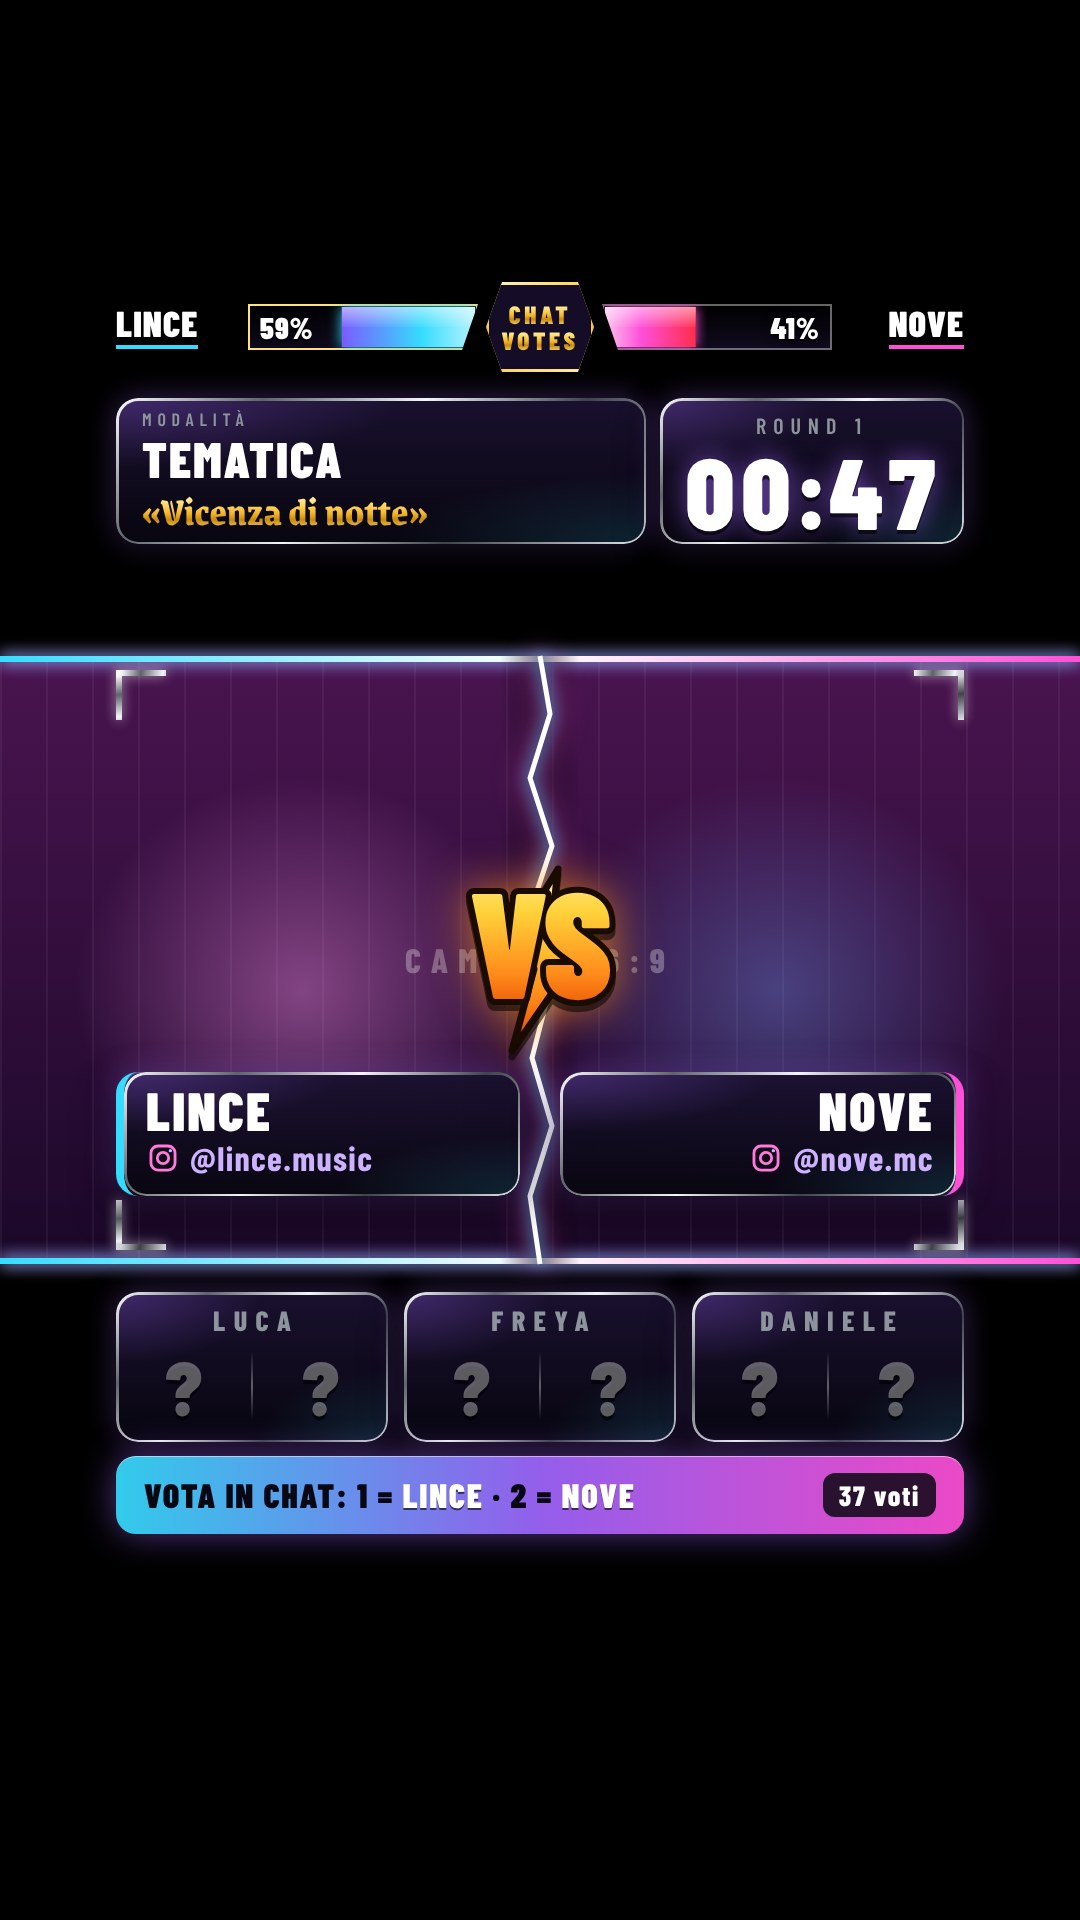
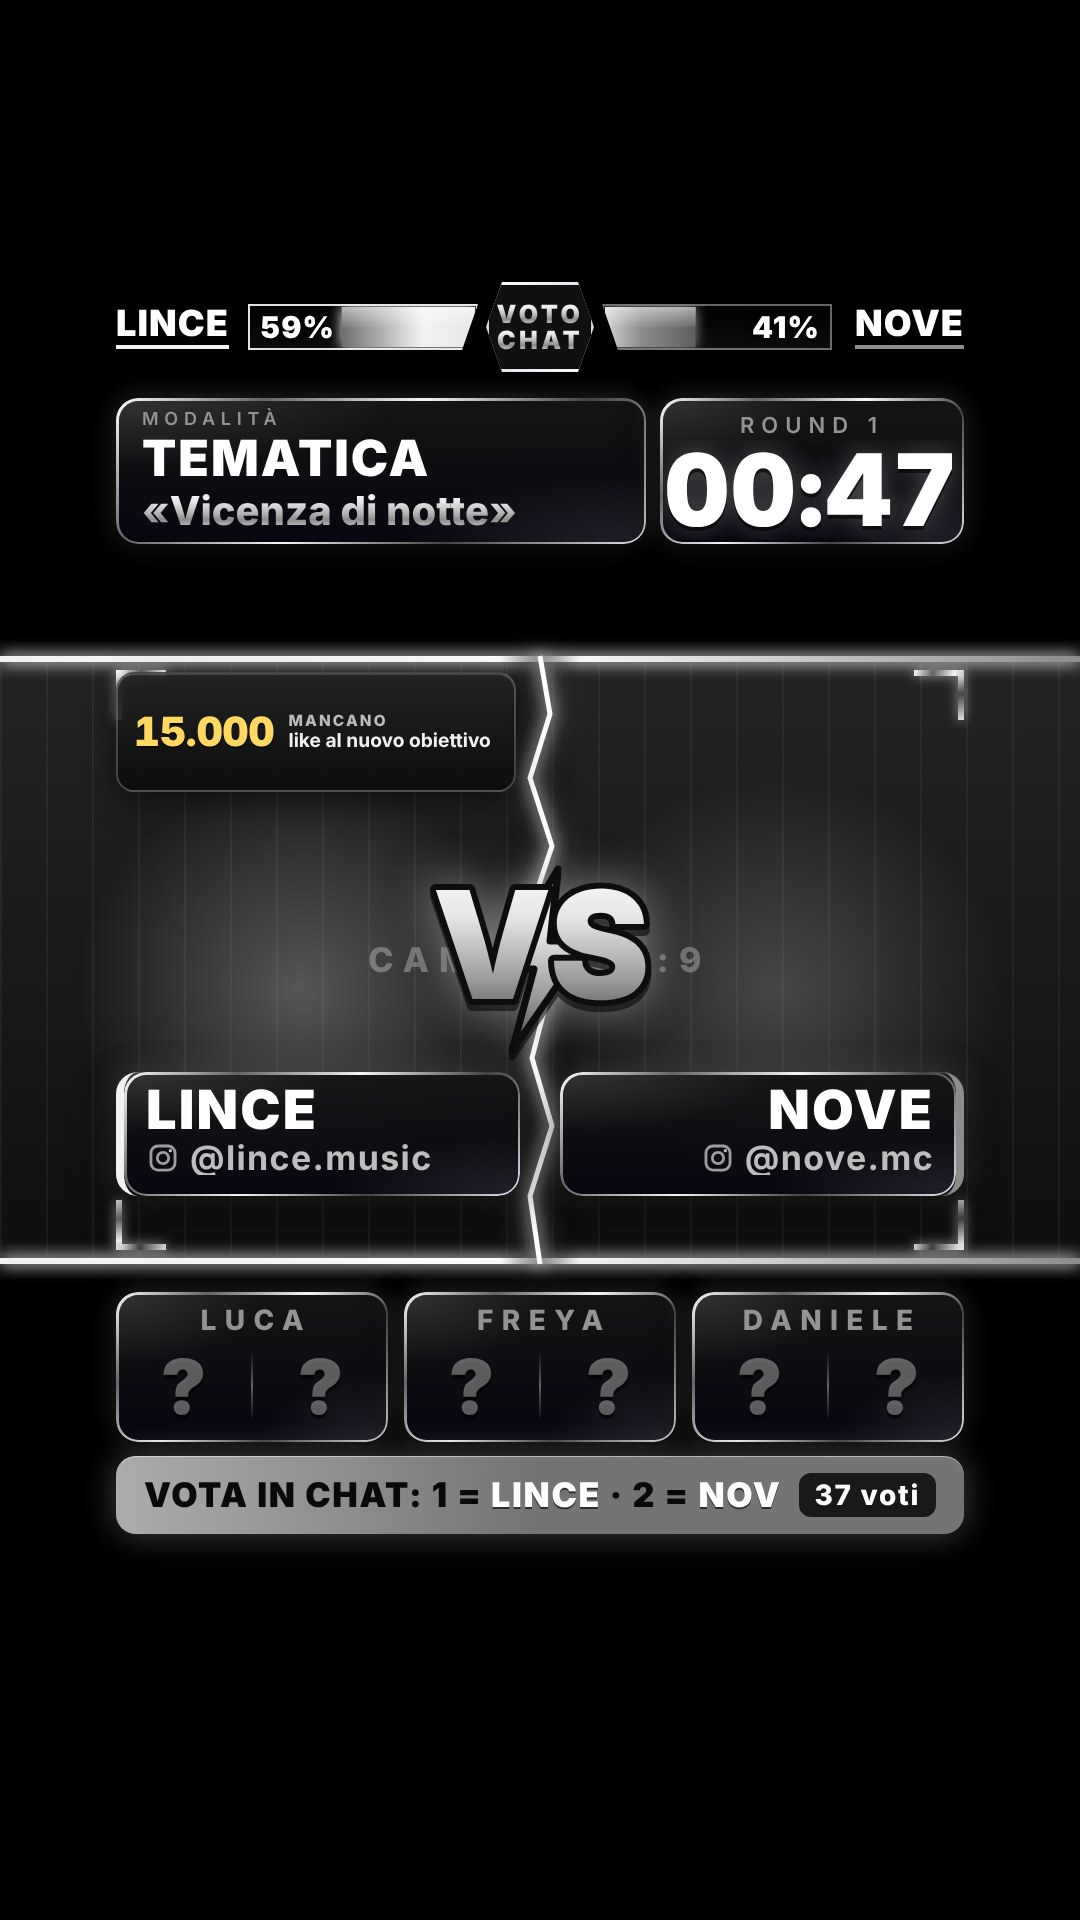
Goal: widget nei layout gara, senza premio, studio e Battle e sezione di regia [skip netlify]
Claude-Session: https://claude.ai/code/session_01KknJSv8vijv85bNpvfWr5a

diff --git a/overlay-live/public/js/regia-goal.js b/overlay-live/public/js/regia-goal.js
@@ -1,0 +1,98 @@
+// Regia: Goal Like e Follower. Obiettivi e passi, follower di adesso (imposta, +1, +10), modo (sempre o a comparsa, con le due
+// durate e «Mostra ora»), posizione per layout (X, Y, scala, frecce da 8 px, «Ripristina posizione») e l'anteprima dei due testi.
+// I campi in uso non si riscrivono (`riempi`). Le funzioni arrivano da regia.js: `$`, `invia`, `avviso`, `riempi` e `salvato`.
+import { testiGoal, posizioneGoal, POSIZIONI_GOAL } from "./goal-logica.js";
+
+const NOMI_LAYOUT = { gara: "Gara", senzaPremio: "Senza premio", studio: "Live session", battle: "Battle", drum: "Drum", produzione: "Studio Production", podcast: "Podcast 9:16", podcastO: "Podcast 16:9", reaction: "Reaction 9:16", reactionO: "Reaction 16:9" };
+const PASSO_FRECCE = 8;
+
+export function avviaRegiaGoal({ $, invia, avviso, riempi, salvato }) {
+  const selezione = $("#goal-layout");
+  for (const chiave of Object.keys(POSIZIONI_GOAL)) selezione.append(Object.assign(document.createElement("option"), { value: chiave, textContent: NOMI_LAYOUT[chiave] ?? chiave }));
+  let ultimo = null;
+  let sceltaFatta = false; // finché la regia non sceglie un layout, segue quello in onda
+  selezione.addEventListener("change", () => {
+    sceltaFatta = true;
+    for (const nome of ["x", "y", "scala"]) delete $("#f-goal-posizione").elements[nome].dataset.modificato;
+    if (ultimo) disegnaPosizione(ultimo);
+  });
+
+  const modulo = (id) => $(id);
+  const campo = (form, nome) => form.elements[nome];
+
+  async function manda(dati, form, testo) {
+    const esito = await invia("goal", dati);
+    if (esito.ok) {
+      if (form) salvato(form);
+      if (testo) avviso(testo, "ok");
+    }
+    return esito;
+  }
+
+  modulo("#f-goal").addEventListener("submit", (e) => {
+    e.preventDefault();
+    const f = e.currentTarget;
+    manda({ like: { obiettivo: campo(f, "like-obiettivo").value, passo: campo(f, "like-passo").value }, follower: { obiettivo: campo(f, "follower-obiettivo").value, passo: campo(f, "follower-passo").value } }, f, "Obiettivi aggiornati");
+  });
+
+  const seguaci = modulo("#f-goal-follower");
+  seguaci.addEventListener("submit", (e) => {
+    e.preventDefault();
+    const valore = campo(seguaci, "totale").value.trim();
+    if (valore === "") return avviso("Scrivi quanti follower avete adesso", "errore");
+    manda({ follower: { imposta: valore } }, seguaci, "Follower aggiornati");
+  });
+  for (const bottone of seguaci.querySelectorAll("[data-aggiungi]")) bottone.addEventListener("click", () => manda({ follower: { aggiungi: Number(bottone.dataset.aggiungi) } }));
+
+  const modo = modulo("#f-goal-modo");
+  modo.addEventListener("submit", (e) => {
+    e.preventDefault();
+    manda({ modo: campo(modo, "modo").value, ogniMinuti: campo(modo, "ogniMinuti").value, durataSecondi: campo(modo, "durataSecondi").value }, modo, "Goal aggiornato");
+  });
+  $("#goal-mostra").addEventListener("click", () => invia("goalMostra"));
+
+  const posizione = modulo("#f-goal-posizione");
+  const layoutScelto = () => selezione.value;
+  posizione.addEventListener("submit", (e) => {
+    e.preventDefault();
+    manda({ posizione: { layout: layoutScelto(), x: campo(posizione, "x").value, y: campo(posizione, "y").value, scala: campo(posizione, "scala").value } }, posizione);
+  });
+  for (const freccia of document.querySelectorAll("#goal-regia [data-muovi]")) {
+    freccia.addEventListener("click", () => {
+      if (!ultimo) return;
+      const [dx, dy] = freccia.dataset.muovi.split(",").map(Number);
+      const { x, y } = posizioneGoal(ultimo.goal, layoutScelto());
+      manda({ posizione: { layout: layoutScelto(), x: Math.max(0, x + dx), y: Math.max(0, y + dy) } });
+    });
+  }
+  $("#goal-ripristina").addEventListener("click", () => manda({ posizione: { layout: layoutScelto(), ripristina: true } }, null, "Posizione ripristinata"));
+
+  function disegnaPosizione(s) {
+    const { x, y, scala } = posizioneGoal(s.goal, layoutScelto());
+    riempi(campo(posizione, "x"), Math.round(x));
+    riempi(campo(posizione, "y"), Math.round(y));
+    riempi(campo(posizione, "scala"), Math.round(scala * 100));
+  }
+
+  return {
+    disegna(s) {
+      ultimo = s;
+      const g = s.goal;
+      const chiaveInOnda = POSIZIONI_GOAL[s.layout] ? s.layout : "gara";
+      if (!sceltaFatta && selezione.value !== chiaveInOnda) selezione.value = chiaveInOnda;
+      const f = modulo("#f-goal");
+      riempi(campo(f, "like-obiettivo"), g.like.obiettivo);
+      riempi(campo(f, "like-passo"), g.like.passo);
+      riempi(campo(f, "follower-obiettivo"), g.follower.obiettivo);
+      riempi(campo(f, "follower-passo"), g.follower.passo);
+      riempi(campo(seguaci, "totale"), g.follower.totale);
+      riempi(campo(modo, "ogniMinuti"), g.ogniMinuti);
+      riempi(campo(modo, "durataSecondi"), g.durataSecondi);
+      if (document.activeElement !== campo(modo, "modo")) campo(modo, "modo").value = g.modo;
+      $("#goal-avviso").hidden = g.follower.totale !== null;
+      disegnaPosizione(s);
+      const t = testiGoal(g);
+      $("#goal-anteprima").textContent = `In onda: ${[t.like, t.follower].filter(Boolean).join(" · ") || "niente (totali sconosciuti)"}`;
+    },
+  };
+}

diff --git a/overlay-live/public/regia.html b/overlay-live/public/regia.html
@@ -261,6 +261,58 @@
       </div>
     </section>
 
+    <!-- GOAL LIKE E FOLLOWER: uguale in tutti i layout -->
+    <section class="scheda sp-regia" id="goal-regia">
+      <h2>Goal Like e Follower <span class="conta">«Mancano X like al nuovo obiettivo» in tutti i layout</span></h2>
+      <label class="interruttore"><input type="checkbox" data-widget="goal"> Goal in onda</label>
+      <form id="f-goal" class="modulo" autocomplete="off">
+        <div class="gl-testa"><span></span><span>Obiettivo</span><span>Passo</span></div>
+        <div class="gl-riga-regia">
+          <span>Like</span>
+          <input name="like-obiettivo" type="number" min="1" step="1" inputmode="numeric" aria-label="Obiettivo dei like">
+          <input name="like-passo" type="number" min="0" step="1" inputmode="numeric" aria-label="Passo dei like">
+        </div>
+        <div class="gl-riga-regia">
+          <span>Follower</span>
+          <input name="follower-obiettivo" type="number" min="1" step="1" inputmode="numeric" aria-label="Obiettivo dei follower">
+          <input name="follower-passo" type="number" min="0" step="1" inputmode="numeric" aria-label="Passo dei follower">
+        </div>
+        <button>Salva obiettivi</button>
+      </form>
+      <p class="nota">Raggiunto l'obiettivo, il nuovo è il primo multiplo del passo sopra il totale (con passo 0 resta quello scelto). I like li conta il Drum Challenge: dal «Riparti da ora» del Drum partono da zero.</p>
+      <form id="f-goal-follower" class="modulo gl-azioni" autocomplete="off">
+        <label>Follower di adesso <input name="totale" type="number" min="0" step="1" inputmode="numeric" aria-label="Follower di adesso"></label>
+        <button>Imposta</button>
+        <button type="button" data-aggiungi="1">+1</button>
+        <button type="button" data-aggiungi="10">+10</button>
+      </form>
+      <p class="nota avviso-goal" id="goal-avviso" hidden>Imposta i follower di adesso: finché non si sa, la riga dei follower non va in onda (poi si aggiorna da sola con i follow della live).</p>
+      <form id="f-goal-modo" class="modulo gl-azioni" autocomplete="off">
+        <label>Compare <select name="modo"><option value="fisso">sempre</option><option value="comparsa">a comparsa</option></select></label>
+        <label>ogni <input name="ogniMinuti" type="number" min="1" max="60" step="1" inputmode="numeric" aria-label="Ogni quanti minuti"> min</label>
+        <label>per <input name="durataSecondi" type="number" min="5" max="120" step="1" inputmode="numeric" aria-label="Secondi in vista"> s</label>
+        <button>Salva</button>
+        <button type="button" id="goal-mostra" class="primario">Mostra ora</button>
+      </form>
+      <h3>Posizione</h3>
+      <form id="f-goal-posizione" class="modulo gl-azioni" autocomplete="off">
+        <label>Layout <select name="layout" id="goal-layout"></select></label>
+        <label>X <input name="x" type="number" min="0" max="1920" step="1" inputmode="numeric" aria-label="Posizione X"></label>
+        <label>Y <input name="y" type="number" min="0" max="1920" step="1" inputmode="numeric" aria-label="Posizione Y"></label>
+        <label>Scala <input name="scala" type="number" min="60" max="200" step="5" inputmode="numeric" aria-label="Scala in percentuale"> %</label>
+        <button>Applica</button>
+      </form>
+      <div class="azioni">
+        <button type="button" data-muovi="-8,0" aria-label="8 pixel a sinistra">←</button>
+        <button type="button" data-muovi="8,0" aria-label="8 pixel a destra">→</button>
+        <button type="button" data-muovi="0,-8" aria-label="8 pixel in su">↑</button>
+        <button type="button" data-muovi="0,8" aria-label="8 pixel in giù">↓</button>
+        <button type="button" id="goal-ripristina">Ripristina posizione</button>
+      </div>
+      <p class="nota">Ogni layout ha la sua posizione (la tela è 1080×1920, o 1920×1080 per Podcast e Reaction orizzontali): il Goal non esce mai dalla tela.</p>
+      <p class="nota" id="goal-anteprima"></p>
+    </section>
+
     <!-- SOCIAL DEL BRAND: una lista sola per tutte le fasce che scorrono -->
     <section class="scheda sp-regia" id="social-regia">
       <h2>Social del brand <span class="conta">una lista sola, in tutte le barre che scorrono: senza premio, studio, drum, produzione, podcast e reaction</span></h2>

diff --git a/overlay-live/public/js/overlay.js b/overlay-live/public/js/overlay.js
@@ -7,6 +7,8 @@ import { collega, formatta, durata } from "./connessione.js";
 import { suona, volume } from "./suoni.js";
 import { suoniTraccia, cambiClassifica, suoniClassifica, suoniTimer, suonaIn, RITARDO_CLASSIFICA_MS, SOGLIA_URGENTE_MS } from "./eventi-sonori.js";
 import { adattaTesto } from "./pagina.js";
+import { creaGoal } from "./goal.js";
+import { chiaveGoal } from "./goal-logica.js";
 import { disegnaAlbero } from "./albero.js";
 
 const parametri = new URLSearchParams(location.search);
@@ -36,12 +38,16 @@ function adattaPalco() {
 addEventListener("resize", adattaPalco);
 adattaPalco();
 
+// Il Goal ha la posizione della gara verticale; in orizzontale la gara non lo mostra.
+const goal = ORIZZONTALE ? null : creaGoal({ palco, chiave: chiaveGoal("gara", false), statico: parametri.has("statico") });
+
 let stato = null;
 let primoDisegno = true;
 const conn = collega({
   suStato(s, eventi) {
     const prima = stato;
     stato = s;
+    goal?.aggiorna(s, eventi);
     riproduci(suoniTraccia(prima, s, eventi));
     disegnaPremio(s);
     disegnaTabellone(s);
@@ -50,6 +56,7 @@ const conn = collega({
     disegnaVincitore(s);
     disegnaSpareggio(s);
     palco.classList.toggle("schermo-pieno", Boolean(s.vincitore?.visibile || s.spareggio));
+    palco.classList.toggle("con-albero", Boolean(s.visibili.albero)); // il Goal sta sotto il tabellone ad albero, non sopra
     primoDisegno = false;
   },
 });

diff --git a/overlay-live/public/js/battle.js b/overlay-live/public/js/battle.js
@@ -10,6 +10,8 @@ import { collega, durata } from "./connessione.js";
 import { suona, volume } from "./suoni.js";
 import { suoniBattle, suoniTimerBattle, msTimerBattle, suonaIn } from "./eventi-sonori.js";
 import { prossimaComparsa } from "./studio-logica.js";
+import { creaGoal } from "./goal.js";
+import { chiaveGoal } from "./goal-logica.js";
 import { disegnaTabellone } from "./battle-tabellone.js";
 import {
   percentuali,
@@ -111,10 +113,13 @@ function scriviConLink(el, testo) {
 let stato = null;
 let primoDisegno = true;
 
+const goal = creaGoal({ palco, chiave: chiaveGoal("battle", false), statico: new URLSearchParams(location.search).has("statico") });
+
 const conn = collega({
   suStato(s, eventi) {
     const prima = stato;
     stato = s;
+    goal.aggiorna(s, eventi);
     suoni(prima, s, eventi);
     disegna(s);
     effetti(prima, s, eventi);
@@ -142,6 +147,7 @@ function disegna(s) {
   const b = s.battle;
   applicaTesti(b);
   for (const el of document.querySelectorAll("[data-parte]")) {
+    if (el.dataset.parte === "goal") continue; // il Goal lo gestisce goal.js (visibile, a comparsa o spento)
     const widget = WIDGET[el.dataset.parte];
     el.hidden = !PARTI.includes(el.dataset.parte) || (widget !== undefined && s.visibili[widget] === false);
   }

diff --git a/overlay-live/public/js/regia.js b/overlay-live/public/js/regia.js
@@ -12,6 +12,7 @@ import { vociBarra, stimaGiroSecondi } from "./barra.js";
 import { vociStudio } from "./studio-logica.js";
 import { avviaRegiaFormati } from "./regia-formati.js";
 import { avviaRegiaVoti } from "./regia-voti.js";
+import { avviaRegiaGoal } from "./regia-goal.js";
 import { NOMI_ICONE } from "./formati-logica.js";
 
 const $ = (sel) => document.querySelector(sel);
@@ -108,6 +109,9 @@ const formati = avviaRegiaFormati({ $, el, invia, avviso, riempi, mostra, conn }
 // Serata → Voti della gara: pesi, voti ammessi e nomi delle quattro voci (regia-voti.js).
 const votazione = avviaRegiaVoti({ $, invia, avviso, riempi, salvato });
 
+// Goal Like e Follower (regia-goal.js).
+const goalRegia = avviaRegiaGoal({ $, invia, avviso, riempi, salvato });
+
 const haVoti = (t) => CATEGORIE.some((c) => t.punteggi[c] !== null) || t.punteggi.chatVoti > 0;
 
 // ---------- Suoni ----------
@@ -150,6 +154,7 @@ function disegna(s) {
   disegnaClassifica(s);
   disegnaSerata(s);
   votazione.disegna(s);
+  goalRegia.disegna(s);
   disegnaSenzaPremio(s);
   disegnaStudio(s);
   disegnaBattle(s);

diff --git a/overlay-live/public/js/senza-premio.js b/overlay-live/public/js/senza-premio.js
@@ -7,6 +7,8 @@ import { collega } from "./connessione.js";
 import { suona, volume } from "./suoni.js";
 import { suoniSenzaPremio, richiesteScheda, suonaIn, SALITA_SCHEDA_MS, USCITA_SCHEDA_MS, DURATA_SPOT_MS, RICHIAMO_MS } from "./eventi-sonori.js";
 import { vociBarra, ETICHETTE_TIER } from "./barra.js";
+import { creaGoal } from "./goal.js";
+import { chiaveGoal } from "./goal-logica.js";
 
 const LARGHEZZA = 1080;
 const ALTEZZA = 1920;
@@ -87,10 +89,13 @@ let stato = null;
 let primoDisegno = true;
 let ultimaTracciaAlle = -Infinity;
 
+const goal = creaGoal({ palco, chiave: chiaveGoal("senzaPremio", false), statico: STATICO });
+
 collega({
   suStato(s, eventi) {
     const prima = stato;
     stato = s;
+    goal.aggiorna(s, eventi);
     const ora = performance.now();
     const suoni = suoniSenzaPremio(prima, s, eventi, { ora, ultimaTracciaAlle, richiamoInCorso });
     if (suoni.some((x) => x.traccia)) ultimaTracciaAlle = ora;

diff --git a/overlay-live/public/js/studio.js b/overlay-live/public/js/studio.js
@@ -8,6 +8,8 @@
 import { collega } from "./connessione.js";
 import { vociStudio, richiesteComparsa, prossimaComparsa, USCITA_COMPARSA_MS, SALITA_COMPARSA_MS, GIRO_TARGA_MS } from "./studio-logica.js";
 import { creaNastro } from "./nastro.js";
+import { creaGoal } from "./goal.js";
+import { chiaveGoal } from "./goal-logica.js";
 
 const LARGHEZZA = 1080;
 const ALTEZZA = 1920;
@@ -106,10 +108,13 @@ for (const el of document.querySelectorAll("[data-moneta]")) costruisciMoneta(el
 let stato = null;
 let primoDisegno = true;
 
+const goal = creaGoal({ palco, chiave: chiaveGoal("studio", false), statico: new URLSearchParams(location.search).has("statico") });
+
 collega({
   suStato(s, eventi) {
     const prima = stato;
     stato = s;
+    goal.aggiorna(s, eventi);
     disegnaTarga(s);
     disegnaBarra(s);
     disegnaComparse(prima, s, eventi);

diff --git a/overlay-live/public/css/regia.css b/overlay-live/public/css/regia.css
@@ -364,6 +364,31 @@ input::placeholder {
   margin-top: 10px;
 }
 /* Voti della gara: nome, peso e percentuale di ogni voce, poi i voti ammessi */
+.gl-testa,
+.gl-riga-regia {
+  display: grid;
+  grid-template-columns: 90px minmax(0, 1fr) minmax(0, 1fr);
+  align-items: center;
+  gap: 8px;
+}
+.gl-testa {
+  font: 600 12px/1 var(--font-dati);
+  letter-spacing: 0.14em;
+  text-transform: uppercase;
+  color: var(--testo-tenue);
+}
+.gl-azioni {
+  display: flex;
+  flex-wrap: wrap;
+  align-items: center;
+  gap: 8px 12px;
+}
+.gl-azioni input[type="number"] {
+  width: 84px;
+}
+#goal-regia .avviso-goal {
+  color: #ffd863;
+}
 .vz-testa,
 .vz-riga {
   display: grid;

diff --git a/overlay-live/public/battle.html b/overlay-live/public/battle.html
@@ -13,6 +13,7 @@
   <link rel="stylesheet" href="/css/battle.css">
   <link rel="stylesheet" href="/css/battle-tabellone.css">
   <link rel="stylesheet" href="/css/battle-vittoria.css">
+  <link rel="stylesheet" href="/css/goal.css">
 </head>
 <body class="verticale bt">
   <!-- Elementi grafici: gradienti, punta e icone dei social disegnate da noi (come nel layout studio) -->

diff --git a/overlay-live/public/senza-premio.html b/overlay-live/public/senza-premio.html
@@ -11,6 +11,7 @@
   <link rel="stylesheet" href="/css/base.css">
   <link rel="stylesheet" href="/css/overlay.css">
   <link rel="stylesheet" href="/css/senza-premio.css">
+  <link rel="stylesheet" href="/css/goal.css">
 </head>
 <body class="verticale sp">
   <!-- Elementi grafici: gradienti, punta e corona come nell'overlay della gara, icone dei social disegnate da noi -->

diff --git a/overlay-live/public/studio.html b/overlay-live/public/studio.html
@@ -12,6 +12,7 @@
   <link rel="stylesheet" href="/css/overlay.css">
   <link rel="stylesheet" href="/css/senza-premio.css">
   <link rel="stylesheet" href="/css/studio.css">
+  <link rel="stylesheet" href="/css/goal.css">
 </head>
 <body class="verticale st">
   <!-- Elementi grafici: gradienti, punta e icone dei social disegnate da noi (come nel layout senza premio) -->

diff --git a/overlay-live/public/css/goal.css b/overlay-live/public/css/goal.css
@@ -72,6 +72,13 @@
   0% { transform: scale(1.22); filter: brightness(1.8); }
   100% { transform: none; filter: none; }
 }
+.schermo-pieno .gl,
+.con-albero .gl,
+.bt-tabellone:not([hidden]) ~ .gl,
+.bt-conto:not([hidden]) ~ .gl,
+.bt-vittoria:not([hidden]) ~ .gl {
+  opacity: 0 !important;
+}
 .statico .gl,
 .statico .gl-numero {
   animation: none;
